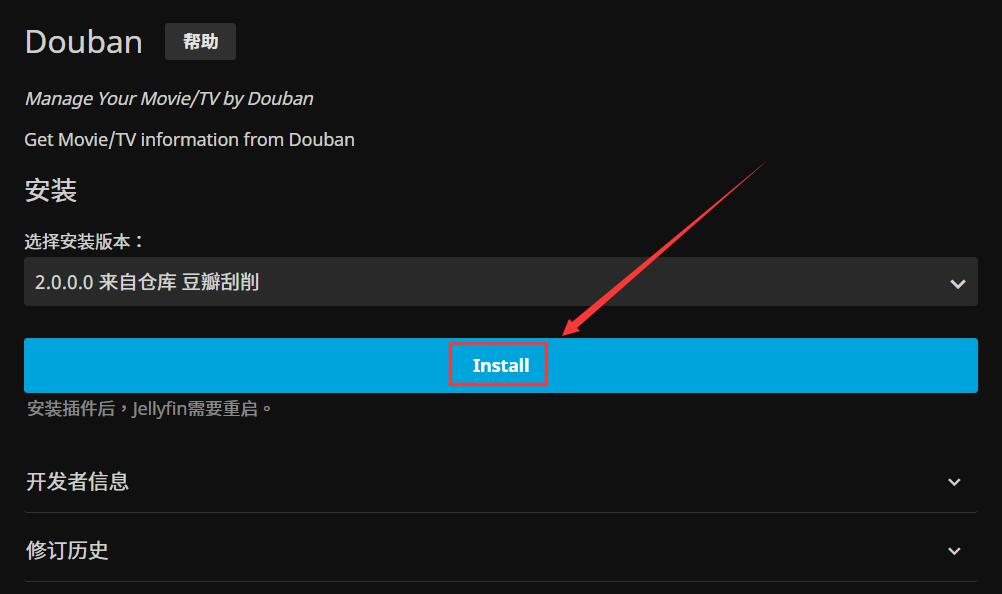
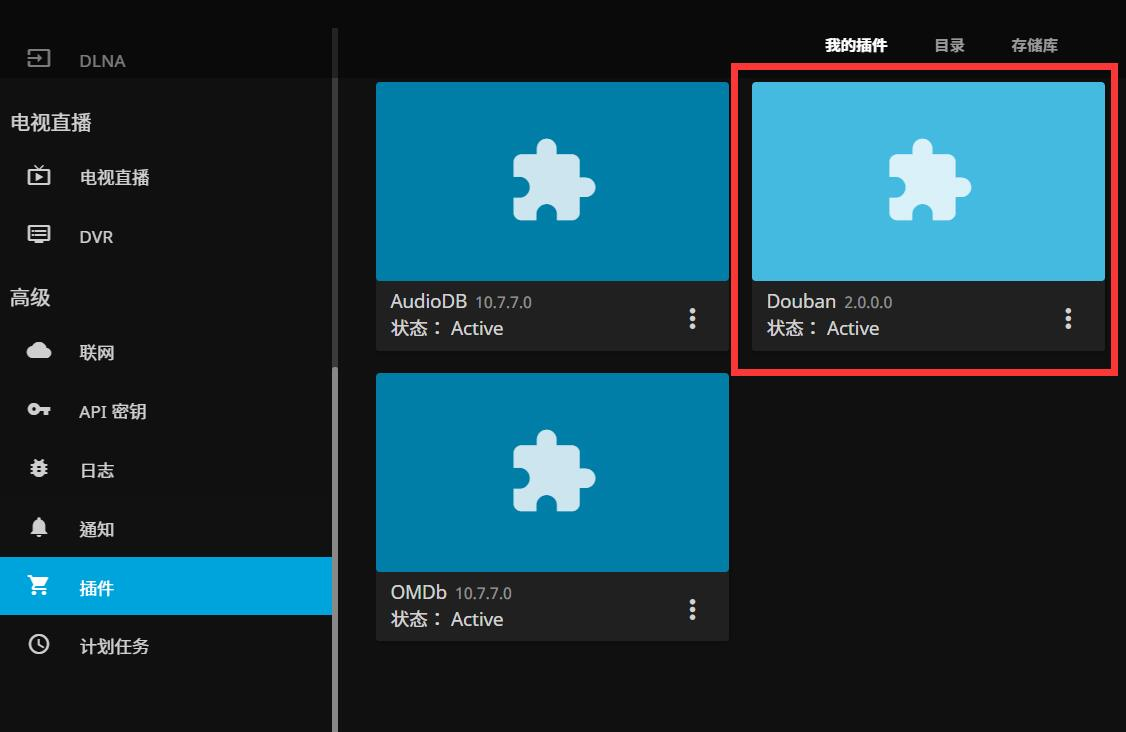
update douban

diff --git a/docs/zh/guide/easepi/advanced.md b/docs/zh/guide/easepi/advanced.md
@@ -52,7 +52,7 @@ Jellyfin是一个优秀的家庭影院平台，而ARS2支持4K H265（HEVC），
 
 * 媒体文件路径：Jellyfin媒体库路径，按需修改。可指定文件夹，例如：/mnt/sda1/media。
 
-* 配置数据路径：Jellyfin的配置路径，默认/root/jellyfin/config，按需修改。
+* 配置数据路径：Jellyfin的配置路径，默认/root/jellyfin/config，建议改到硬盘目录下，如：/mnt/sda1/jellyfin/config按需修改。
 
 * 转码缓存路径：可不设置，按需修改。例如：/mnt/sda1/jellyfin/cache。
 
@@ -64,12 +64,12 @@ Jellyfin是一个优秀的家庭影院平台，而ARS2支持4K H265（HEVC），
 ```
 解压出来的镜像：jellyfin-rtk.tar
 ```
-然后把镜像放入ARS2的磁盘，比如/mnt/sda2/下；
+然后把镜像放入ARS2的磁盘，比如/mnt/sda1/下；
 
 然后终端执行命令导入离线镜像：
 
 ```
-docker load -i /mnt/sda2/jellyfin-rtk.tar
+docker load -i /mnt/sda1/jellyfin-rtk.tar
 ```
 
 
@@ -143,24 +143,32 @@ docker load -i /mnt/sda2/jellyfin-rtk.tar
 
 众所周知，Jellyfin自带刮削器受限于网络，可能不是很好刮削，所以添加国内的豆瓣刮削。
 
-#### 1.Jellyfin控制台——插件——存储库——添加：
+#### 1.首先下载豆瓣刮削插件[下载地址](https://www.aliyundrive.com/s/5ZP1ymLjmSt)；
 
 ![img](./advanced/douban1.jpg)
 
-#### 2.新建存储库，存储库URL填入下列地址，名称随意；
-```
-https://raw.githubusercontent.com/Libitum/jellyfin-plugin-douban/master/manifest.json
-```
+下载后解压得到插件文件夹：
 
 ![img](./advanced/douban2.jpg)
 
-#### 3.添加完成后，目录——元数据——Douban，点击安装；安装完成后，重启Jellyfish。
+#### 2.然后查看上一步安装Jellyfish的配置数据路径，比如/mnt/sda1/jellyfin/config；
 
-![img](./advanced/douban3.jpg)
+* 一般来说我们都会设置samba共享，方便局域网内访问，若没设置，参考[samba共享教程](https://doc.linkease.com/zh/guide/easepi/common.html#samba共享)
+
+* 设置好samba共享后，直接电脑进入`\\192.168.xxx.xxx`，进入ARS2挂载的硬盘，找到此目录`sda1/jellyfin/config/plugins`，把插件文件夹放进去，然后重启Jellyfish服务器。
+
+![img](./advanced/douban3-0.jpg)
+
+![img](./advanced/douban3-1.jpg)
+
+* 若有伙伴配置数据路径还是在/root/，建议改到/mnt/挂载的硬盘下。
+
+
+#### 3.重启完成后，在插件里就能看到`Douban`了。
 
 ![img](./advanced/douban4.jpg)
 
-#### 4.重启后，在媒体库——管理媒体库中，在元数据/图片等勾选"Douban"，并置顶为第一位。
+#### 4.然后，在媒体库——管理媒体库中，在元数据/图片等勾选"Douban"，并置顶为第一位。
 
 ![img](./advanced/douban5.jpg)
 
@@ -487,9 +495,9 @@ docker run -d --name emqx --restart unless-stopped -p 1883:1883 -p 8081:8081 -p 
 
 **说明：**
 
-初始帐号：admin  
+初始帐号：admin
 
-初始密码：public  
+初始密码：public
 
 连接端口是1883
 
